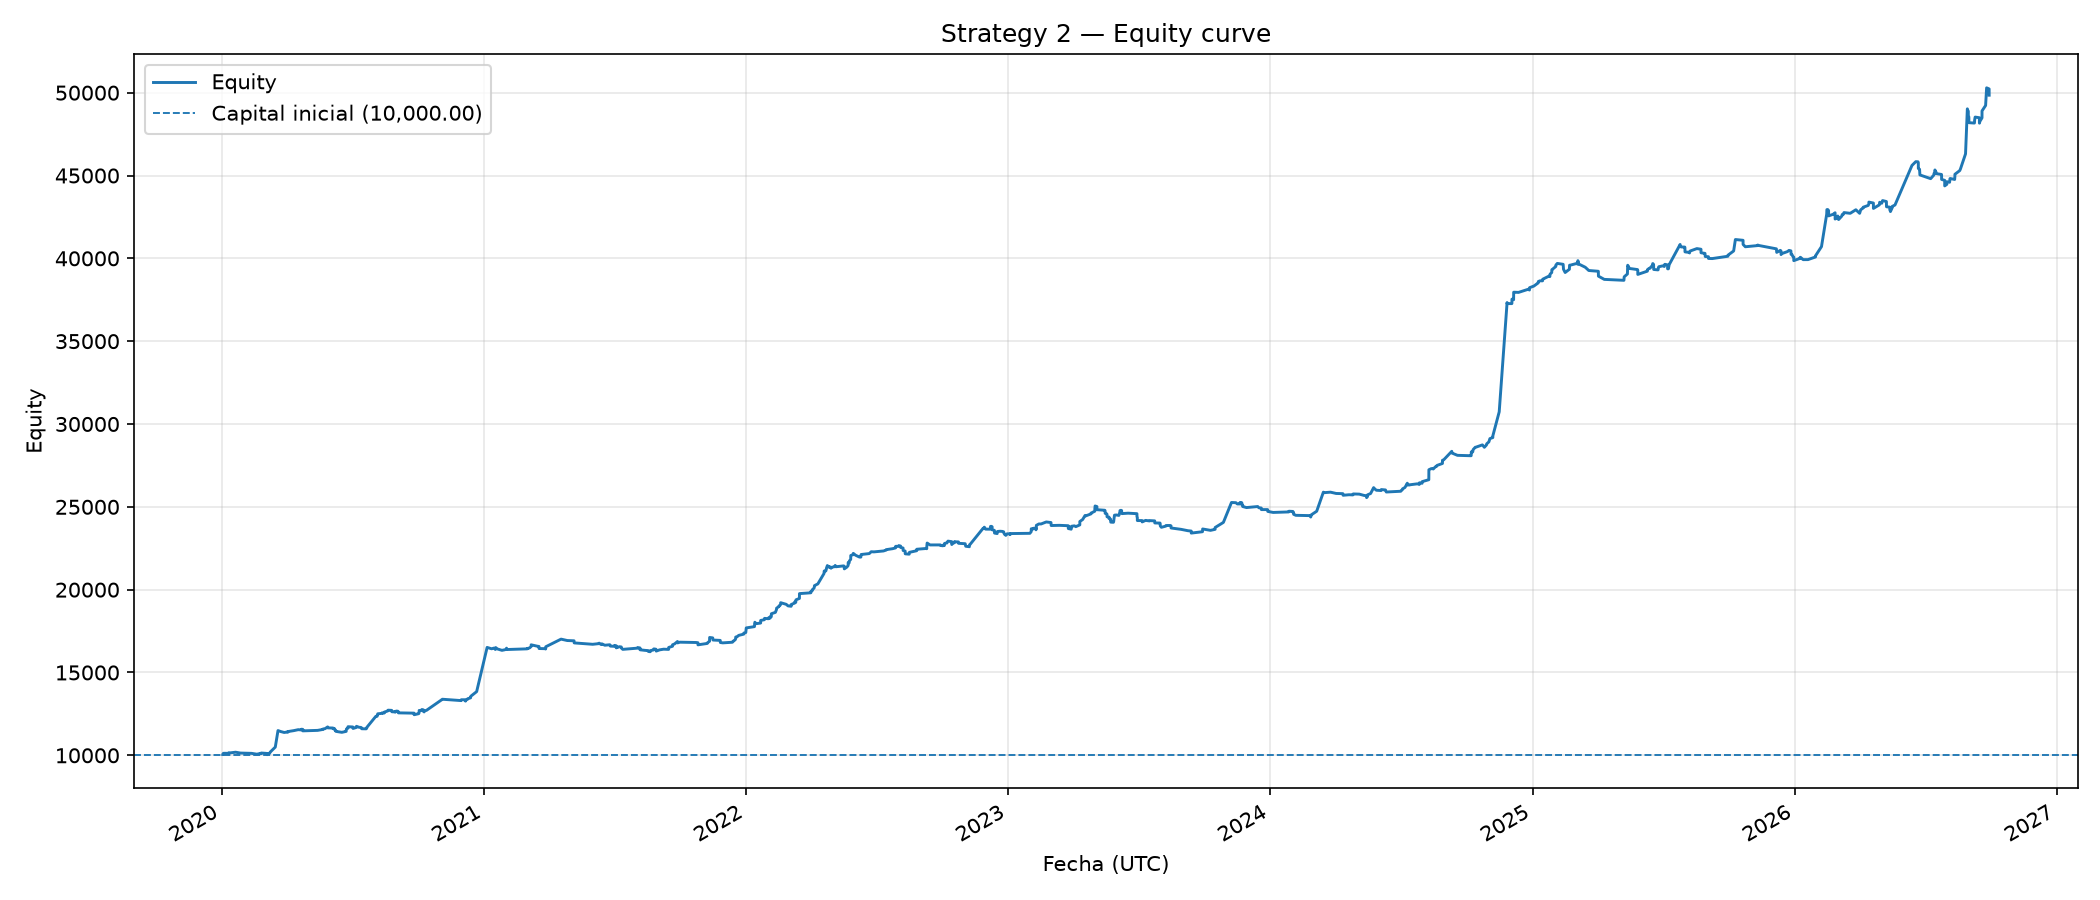
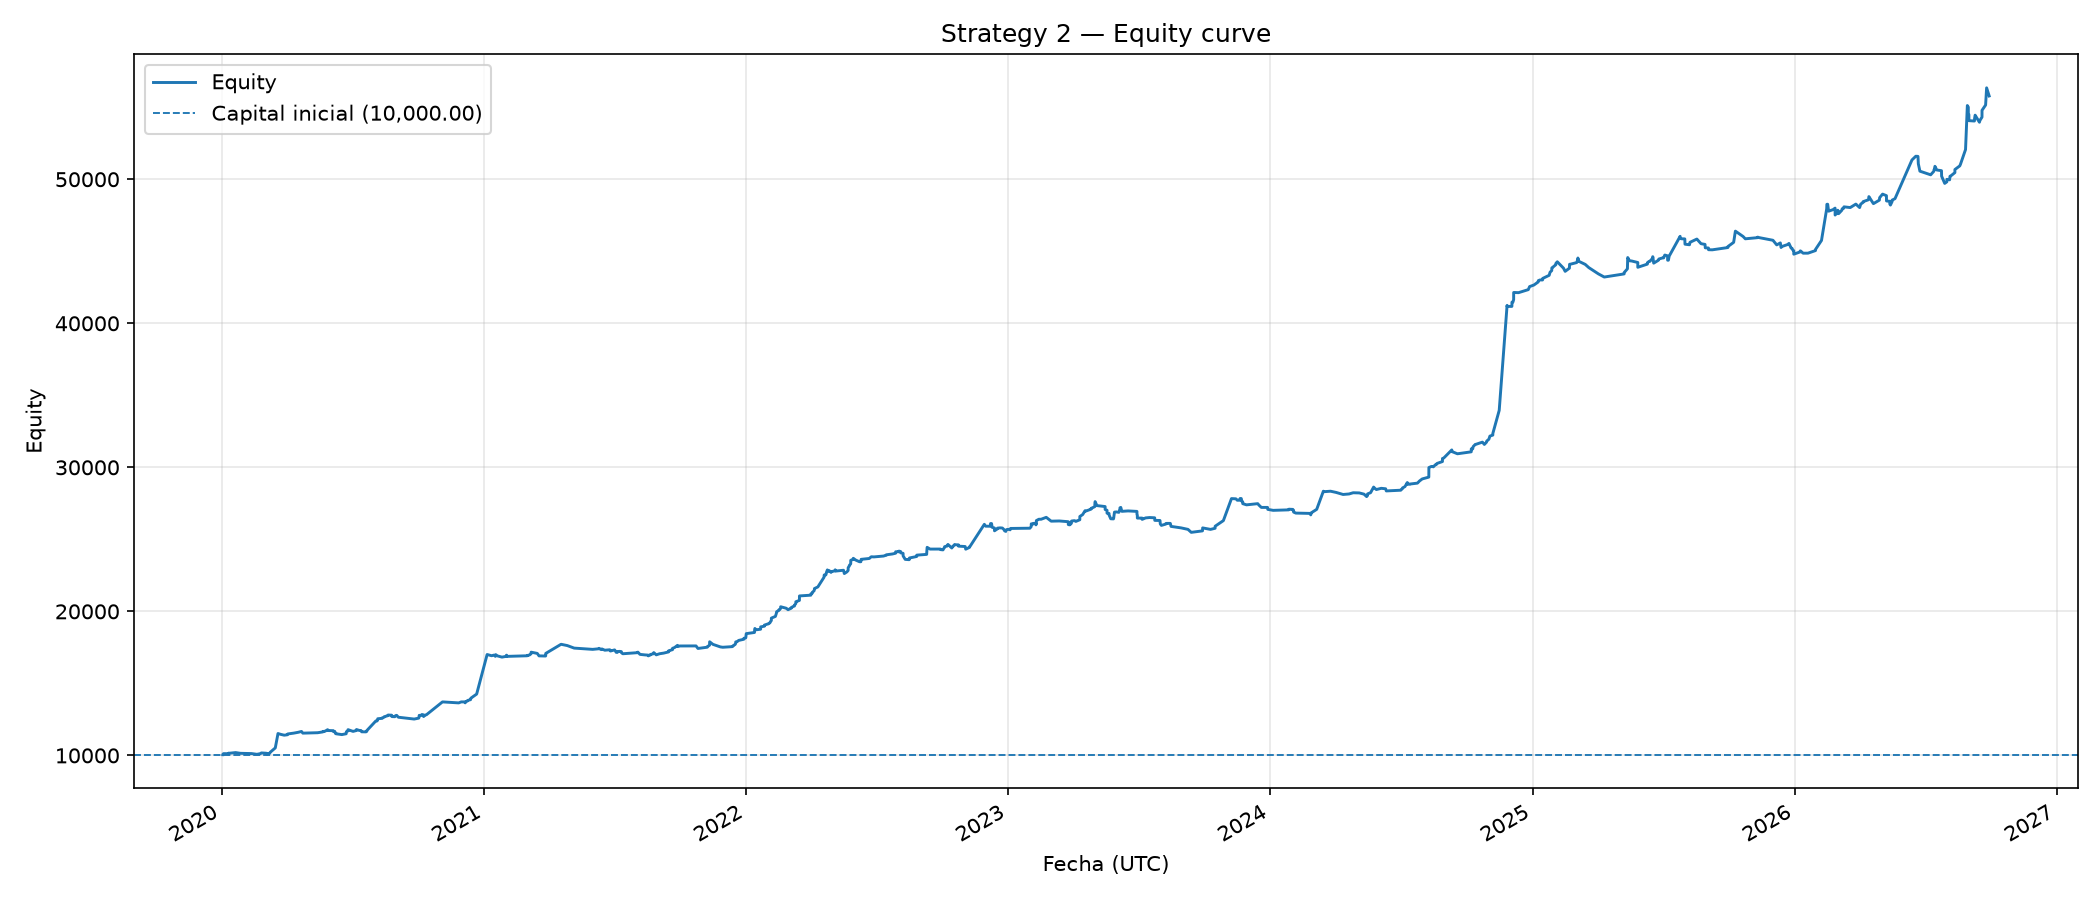
update

diff --git a/backend/services/backtest/bin/legacy/strategy/config.py b/backend/services/backtest/bin/legacy/strategy/config.py
@@ -113,6 +113,9 @@ class Config:
     entry_confirm_close_in_dir: bool = True  # Exige cierre en dirección tras confirmación (modo bars)
     entry_confirm_retest_tol_pct: float = 0.10  # Tolerancia % para pullback_retest
     entry_confirm_max_move_pct: float = 0.3  # Si > 0, no añade el resto si el precio se ha movido > X% desde la entrada parcial
+    # Si la vela donde ocurre la confirmación para añadir el resto cierra en negativo
+    # respecto al precio de entrada parcial, se cierra el 100% de la posición en lugar de hacer scale-in.
+    entry_confirm_close_on_negative: bool = True
 
     # --- Salida parcial en contra de la entrada de confirmación -------------
     # Una vez completada la entrada por confirmación (scale-in), si el precio
@@ -120,11 +123,11 @@ class Config:
     # entrada de confirmación, se cierra `entry_confirm_move_exit_portion_pct` %
     # de la posición restante. Se aplica una sola vez por posición. Es una
     # señal de salida intrabar (stop-like) independiente del stop principal.
-    entry_confirm_move_exit_enabled: bool = True
+    entry_confirm_move_exit_enabled: bool = False
     entry_confirm_move_exit_pct: float = 0.6
     entry_confirm_move_exit_portion_pct: float = 25.0
     # Alias con nombres más descriptivos solicitados
-    confirm_entry_adverse_exit_enabled: bool = True
+    confirm_entry_adverse_exit_enabled: bool = False
     confirm_entry_adverse_move_pct: float = 0.6
     confirm_entry_adverse_exit_pct: float = 25.0
 

diff --git a/backend/services/backtest/bin/legacy/strategy/strategy.py b/backend/services/backtest/bin/legacy/strategy/strategy.py
@@ -897,6 +897,12 @@ class Backtester:
             # 4) Añadir entrada parcial pendiente (scale-in) — decidido al cierre de i
             if not stop_hit and self.position is not None and self.cfg.entry_partial_enabled:
                 if self._should_add_partial(i):
+                    pos = self.position
+                    # Si la vela donde ocurre la confirmación cierra en negativo respecto a la entrada parcial, cerrar todo
+                    if getattr(self.cfg, "entry_confirm_close_on_negative", True):
+                        if (pos.side == 1 and self.c[i] < pos.entry_price - 1e-12) or (pos.side == -1 and self.c[i] > pos.entry_price + 1e-12):
+                            self.pending_exit = ("CONFIRM_CLOSE_NEG", 100.0)
+                            continue
                     # Ejecutar resto completo en apertura de i+1
                     self.pending_add = (i + 1, 100.0)
 
